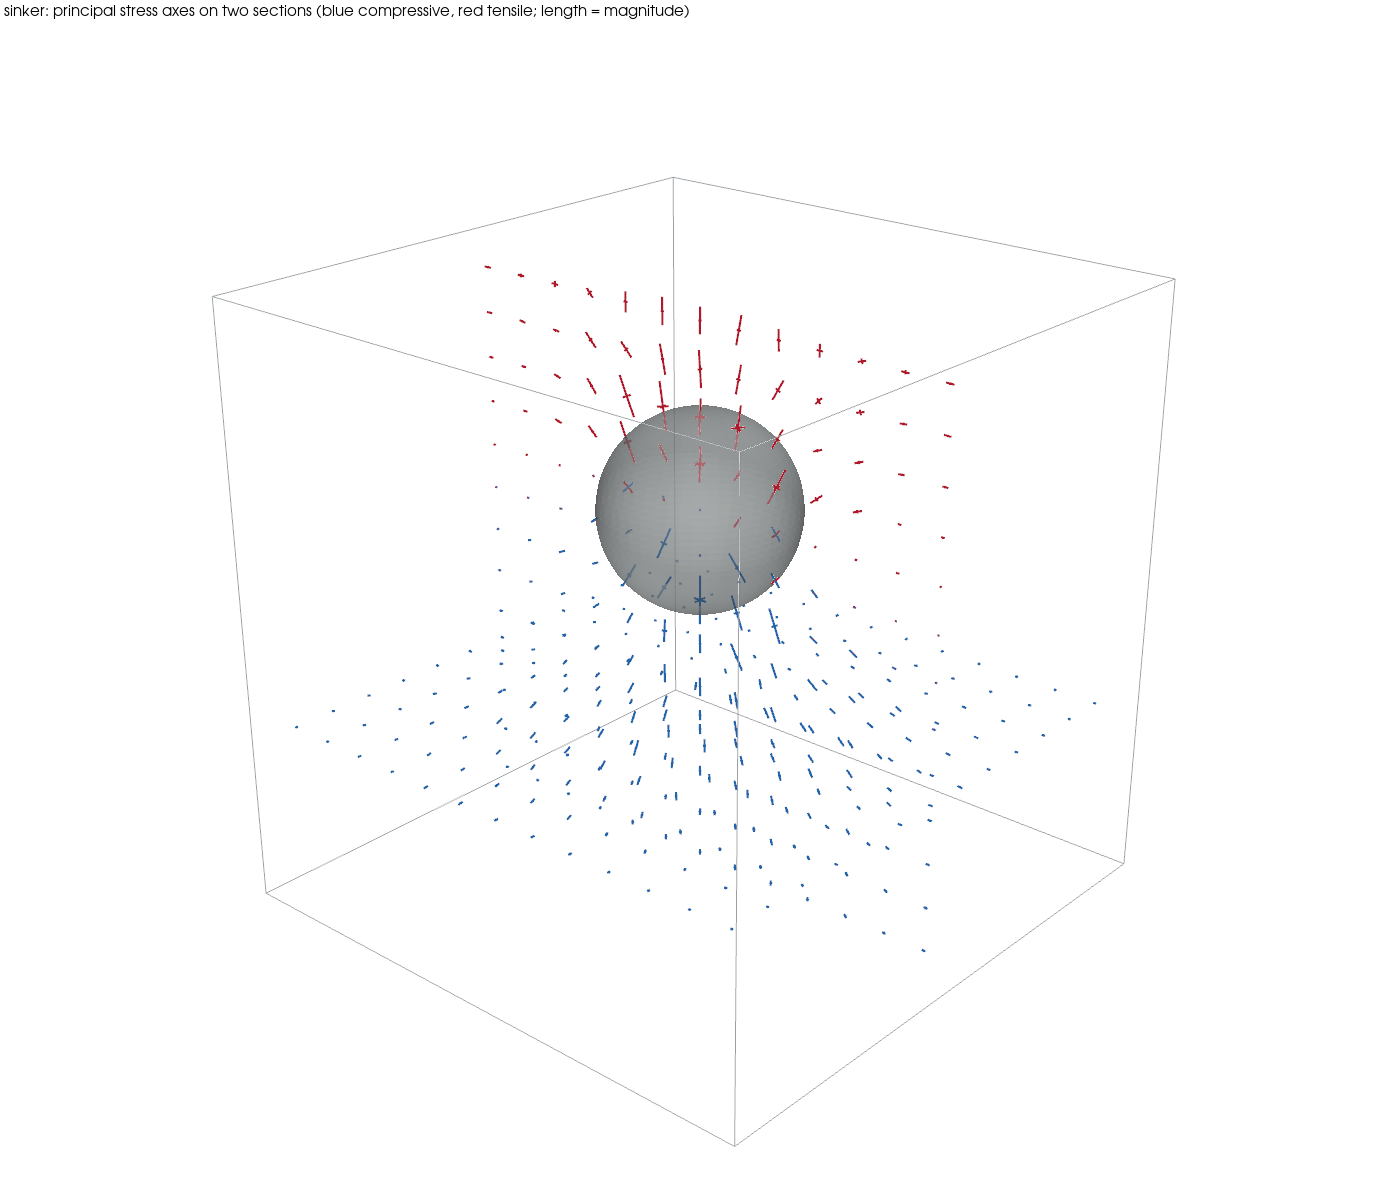
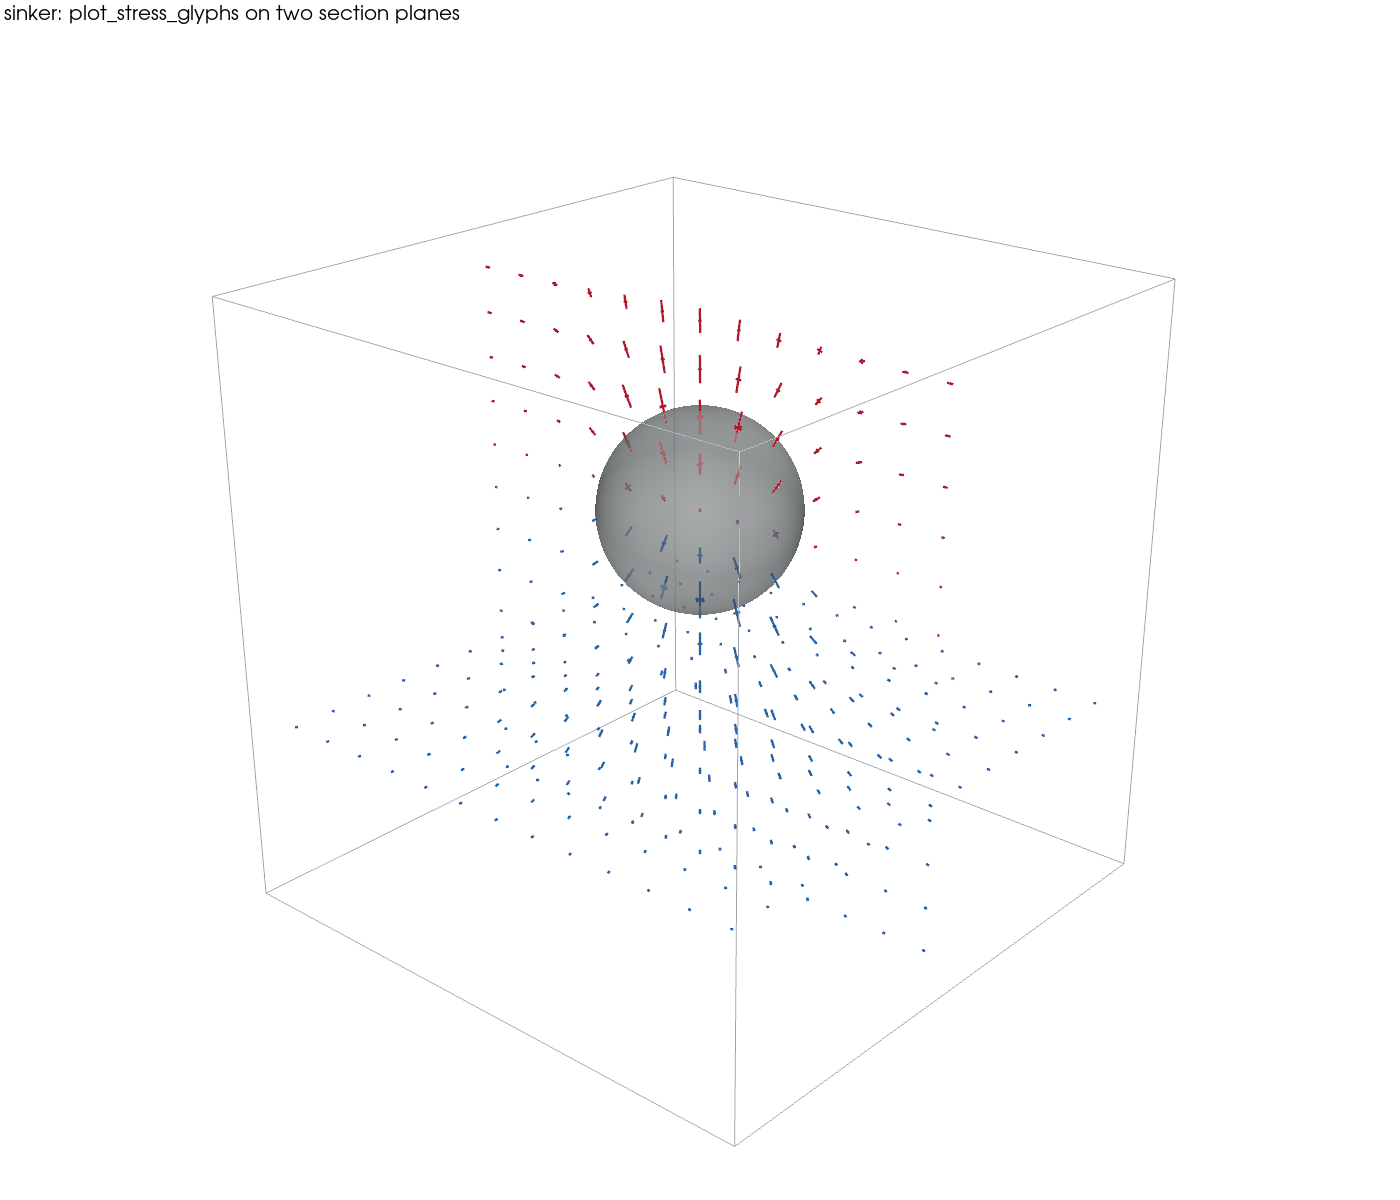
Docs: all three fault-interaction examples, with a strain-rate wash
The figures now come from the API demonstration script driving the
checkpoints: thrust, listric, and en-echelon each get the two-panel
crosses + trajectories treatment, with the strain-rate second
invariant behind at low opacity so the quiet wedges and relay lobes
read without competing with the glyphs. The sinker figure gains its
cube and sphere overlays via plot_stress_glyphs(show=False).

Underworld development team with AI support from Claude Code

Changed region(s): [[0.0, 0.0, 0.4914, 0.0308]]

diff --git a/docs/advanced/stress-visualisation.md b/docs/advanced/stress-visualisation.md
@@ -40,15 +40,17 @@ regions — in fault models, keep seeds out of the weak zones, where the
 recovered stress mixes materials across the interface.
 
 ```{figure} figures/stress_glyphs_thrust.png
-:alt: Two-panel figure for a thrust-ramp model. Top panel, principal stress crosses on a 26 by 13 seed grid over a 2 by 1 section with two grey parabolic ramps rising from a basal decollement. Far-field crosses are blue-horizontal (compression); in the wedges riding each ramp the crosses turn red and near-vertical (tension), with the largest red bars just above the blind ramp tips. Bottom panel, stress trajectories: dark sigma-1 lines run horizontally and arch smoothly over each ramp tip, pale sigma-3 lines rise near-vertically between them, and the two families cross at right angles everywhere.
+:alt: Two-panel figure for a thrust-ramp model. Top panel, principal stress crosses on a 26 by 13 seed grid over a 2 by 1 section with two grey parabolic ramps rising from a basal decollement, drawn over a faint peach strain-rate wash in which the quiet wedges riding each ramp glow white and the blind ramp tips smudge darker. Far-field crosses are blue-horizontal (compression); in the wedges the crosses turn red and near-vertical (tension), largest just above the blind tips. Bottom panel, stress trajectories over the same wash: dark sigma-1 lines run horizontally and arch smoothly over each ramp tip, pale sigma-3 lines rise near-vertically between them, crossing at right angles everywhere.
 :name: fig-stress-glyphs-thrust
 
 Principal-stress crosses (top) and stress trajectories (bottom) for a
-blind-thrust model. The colour convention matches the RdBu_r field
-convention used across the documentation: blue compressive, red
-tensile. The trajectory panel shows the $\sigma_1$ family (dark)
-arching over the ramp tips with the $\sigma_3$ family (pale)
-orthogonal to it.
+blind-thrust model, over a faint strain-rate wash (log scale,
+background-percentile limits, low opacity — the second invariant of
+the strain rate from the same recovered stress). The colour
+convention matches the RdBu_r field convention used across the
+documentation: blue compressive, red tensile. The wash ties the
+stress geometry to the deformation it drives: the near-rigid thrust
+wedges glow white while the blind tips concentrate both quantities.
 ```
 
 ### The pressure gauge matters for colours, not directions
@@ -117,6 +119,33 @@ Draw the compressive family dark and the tensile family pale, as in
 the figure above. In 3-D the analogue of a trajectory is a surface;
 we do not attempt those — draw glyphs on section planes instead.
 
+## Two more regimes, same recipe
+
+The same two panels for the extensional and strike-slip companions of
+the thrust model — nested listric normal faults above a detachment,
+and en-echelon segments in dextral simple shear. Nothing changes in
+the code except the checkpoint being loaded.
+
+```{figure} figures/stress_glyphs_listric.png
+:alt: Two-panel figure for three nested listric normal faults soling into a basal detachment, over a faint peach strain-rate wash with white quiet triangles in the footwall beneath each sole. Top panel, principal stress crosses: red-horizontal tension dominates the upper plate and deepens between the fault traces; blue compression concentrates near the detachment, with strongly rotated mixed crosses hugging each curved fault. Below the detachment the crosses return to uniform red-horizontal. Bottom panel, trajectories: dark sigma-1 lines hang near-vertically in the extending upper plate, bending to meet each listric sole, while pale sigma-3 lines run horizontally; beneath the detachment the net is an undisturbed rectangular grid.
+:name: fig-stress-glyphs-listric
+
+Nested listric normal faults (extension): horizontal tension aloft,
+compression concentrating under the soles, and an undisturbed
+trajectory grid beneath the detachment — the faults decouple the two
+plates.
+```
+
+```{figure} figures/stress_glyphs_enechelon.png
+:alt: Two-panel map-view figure for three en-echelon fault segments in dextral simple shear, over a faint strain-rate wash with bright white lobes at the relay steps between segment tips. Top panel, principal stress crosses at 45 degrees far from the faults, shrinking and rotating through the relay zones, with a blue compressive bridge linking overlapping tips. Bottom panel, trajectories: the dark sigma-1 family sweeps diagonally across the box and kinks sharply as it hands across each relay step; the pale sigma-3 family crosses it orthogonally.
+:name: fig-stress-glyphs-enechelon
+
+En-echelon segments in dextral simple shear (map view): the conjugate
+cross pattern of the far field collapses through the relay steps, and
+the trajectory families kink as stress hands across from segment to
+segment.
+```
+
 ## 3-D glyphs
 
 `principal_stress_glyphs` accepts `(n, 3, 3)` tensors and returns
@@ -133,12 +162,14 @@ pl = vis.plot_stress_glyphs(mesh, stress, seeds=plane)
 ```
 
 ```{figure} figures/stress_glyphs_sinker3d.png
-:alt: A unit cube drawn in outline with a grey sphere of radius 0.16 near the centre, slightly above mid-height. Three-bar principal stress glyphs are drawn on a vertical section plane and a horizontal section plane through the sphere. Above the sphere the bars are red and near-vertical (tension as material is pulled down behind the sinker); below and beside it they are blue (compression), fanning outward on the horizontal plane beneath the sphere. Bar length decays with distance from the sphere.
+:alt: A unit cube drawn in outline with a grey sphere of radius 0.16 near the centre, slightly above mid-height. Three-bar principal stress glyphs are drawn on a vertical section plane and a horizontal section plane through the sphere, via the one-call plot_stress_glyphs with the cube edges and sphere added to the returned plotter. Above the sphere the bars are red and near-vertical (tension as material is pulled down behind the sinker); below and beside it they are blue (compression), fanning outward on the horizontal plane beneath the sphere. Bar length decays with distance from the sphere.
 :name: fig-stress-glyphs-sinker
 
 Three-bar principal-stress glyphs on two section planes through a
 Stokes sinker: a tensile (red) column above the sinking sphere, a
-compressive (blue) fan below and around it.
+compressive (blue) fan below and around it. Rendered with
+`plot_stress_glyphs(..., show=False)` so the cube outline and sphere
+could be added to the returned plotter before the screenshot.
 ```
 
 ## Building blocks
@@ -154,8 +185,13 @@ separately for custom figures:
 | `trajectories_to_pv_lines(lines)` | Bundle polylines for `add_mesh` |
 | `plot_stress_glyphs(mesh, stress, ...)` | One-call cross plot |
 
-The figures on this page come from checkpointed models (a blind-thrust
-fault network and a Stokes sinker): the solve writes the mesh, the
-velocity, the pressure, and the recovered stress components with
-`mesh.write_timestep`, and the glyph plots load them back with
-`read_timestep` — no re-solving to restyle a figure.
+The figures on this page come from checkpointed models (the three
+fault-interaction examples and a Stokes sinker): the solve writes the
+mesh, the velocity, the pressure, and the recovered stress components
+with `mesh.write_timestep`, and the glyph plots load them back with
+`read_timestep` — no re-solving to restyle a figure. The faint
+background in the 2-D panels is the strain-rate second invariant from
+the same recovered stress ($\dot\varepsilon = \tau/2$ at matrix
+viscosity 1), drawn first at low opacity with log scaling and
+background-percentile colour limits, so the glyphs carry the figure
+and the wash only whispers where deformation concentrates.
